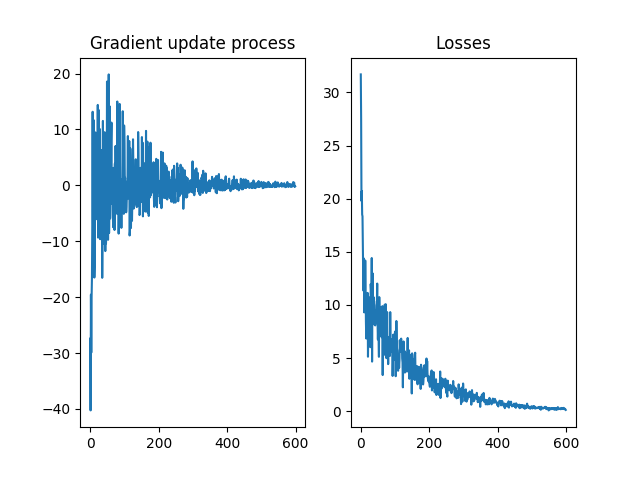
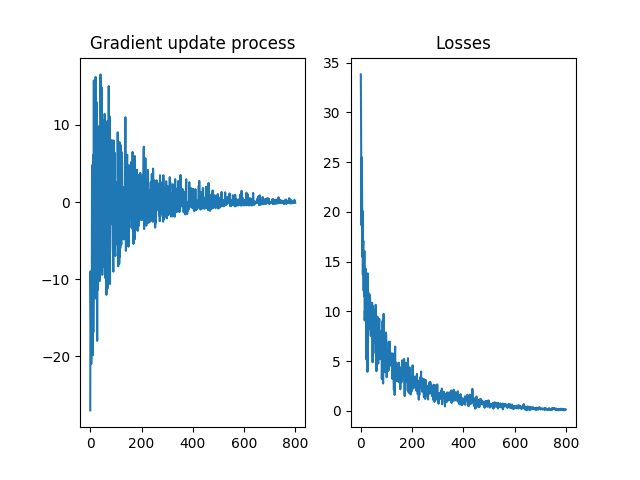
fix bug

diff --git a/ML/regression/optimizer.py b/ML/regression/optimizer.py
@@ -66,7 +66,7 @@ class AdaGradLinreg(linReg):
         # update adagrad vector
         self.S += grad ** 2
         # update parameters
-        adagrad = (lr / np.square(self.S + sigma)) * grad
+        adagrad = (lr / np.sqrt(self.S + sigma)) * grad
         self.w -= adagrad[:2]
         self.b -= adagrad[-1]
 
@@ -89,8 +89,8 @@ class RMSPropLinreg(linReg):
         self.S2 = self.gama*self.S2 + ((1-self.gama)*grad**2)[-1]
         
         # update parameters
-        self.w -= (lr / np.square(self.S1 + sigma)) * grad[:2]
-        self.b -= (lr / np.square(self.S2 + sigma)) * grad[-1]
+        self.w -= (lr / np.sqrt(self.S1 + sigma)) * grad[:2]
+        self.b -= (lr / np.sqrt(self.S2 + sigma)) * grad[-1]
 
 
 
@@ -109,8 +109,8 @@ class AdaDeltaLinreg(linReg):
         self.S2 = ro*self.S2 + ((1-ro)*grad**2)[-1]
 
         #fix grad
-        grad1 = np.square((self.delta[:2]+sigma)/(self.S1+sigma)) * grad[:2]
-        grad2 = np.square((self.delta[-1]+sigma)/(self.S2+sigma)) * grad[-1]
+        grad1 = np.sqrt((self.delta[:2]+sigma)/(self.S1+sigma)) * grad[:2]
+        grad2 = np.sqrt((self.delta[-1]+sigma)/(self.S2+sigma)) * grad[-1]
 
         # update parameters
         self.w -= grad1
@@ -127,21 +127,20 @@ class AdamLinreg(linReg):
         super(AdamLinreg, self).__init__(num_inputs)
         self.S = np.zeros(num_inputs+1)
         self.V = np.zeros(num_inputs+1)
+        self.t = 1
         
 
     def sgd_Adam(self, grad, lr, beta1=0.9, beta2=0.999, sigma=1E-6):
         self.V = beta1*self.V + (1-beta1)*grad
         self.S = beta2*self.S + (1-beta2) * grad**2
-
+        
         ### bias fix
-        """note: regarding the large timestep here, we do not implement bias fix
-        which because small `1-beta2` will make self.S overflow
-        """
-        #self.V /= 1-beta1
-        #self.S /= 1-beta2
+        Vfix = self.V / (1- beta1**self.t)
+        Sfix = self.S / (1- beta2**self.t)
+        self.t += 1
 
         # fix grad
-        grad = (lr*self.V)/(np.square(self.S)+sigma) * grad
+        grad = (lr*Vfix)/(np.sqrt(Sfix)+sigma) * grad
 
         # update parameters
         self.w -= grad[:2]

diff --git a/ML/regression/linearRegression.py b/ML/regression/linearRegression.py
@@ -104,6 +104,7 @@ def train(num_epochs = 100, batch_size = 5, cliff = 0.5, Optimizer = 'batchGD', 
             os.chdir('../../images/')
             plt.savefig('{}grad&loss.png'.format(Optimizer))
             os.chdir(restore)
+        plt.close('all')
         #plt.show()
 
 
@@ -113,7 +114,6 @@ train(Optimizer="batchGD")
 
 ### stochastic gradient descent
 train(Optimizer="SGD")
-
 
 ### momentum
 train(Optimizer='momentum', Model=momentumLinreg)
